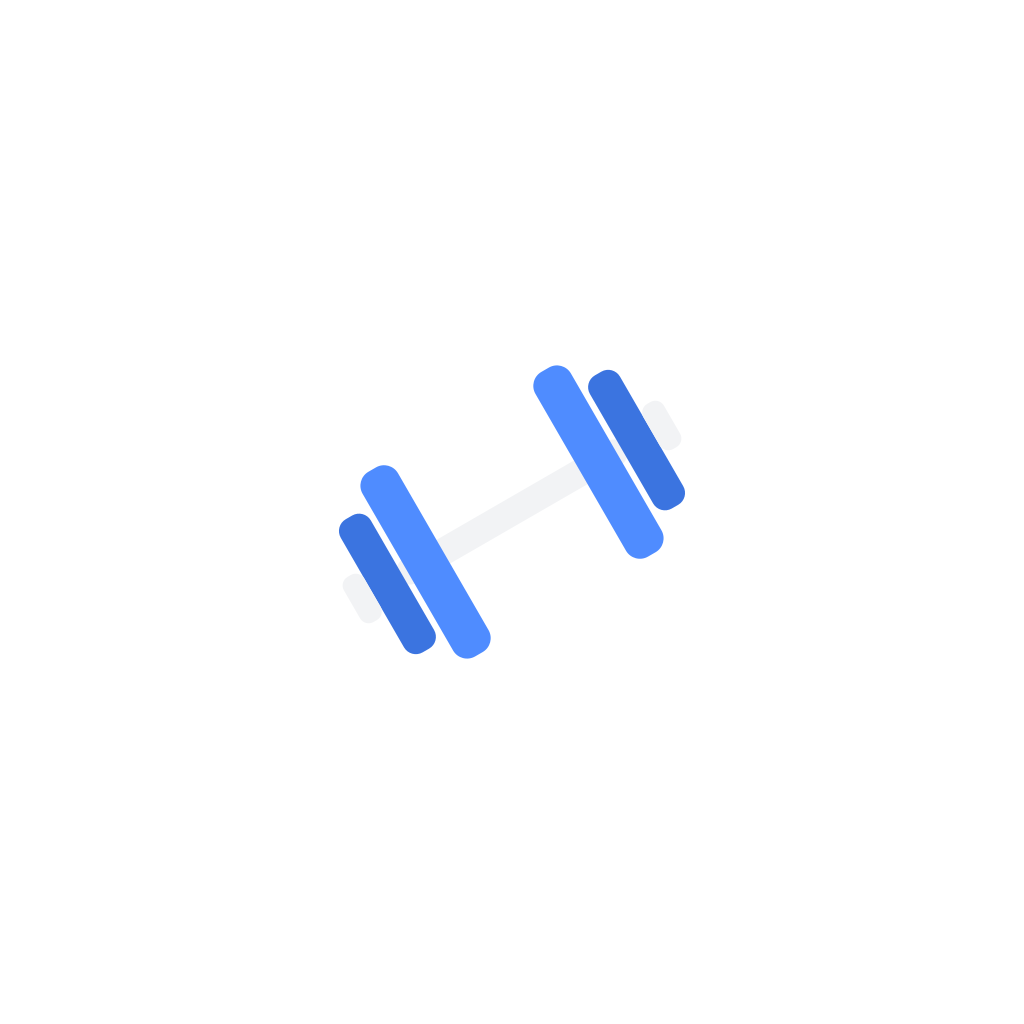
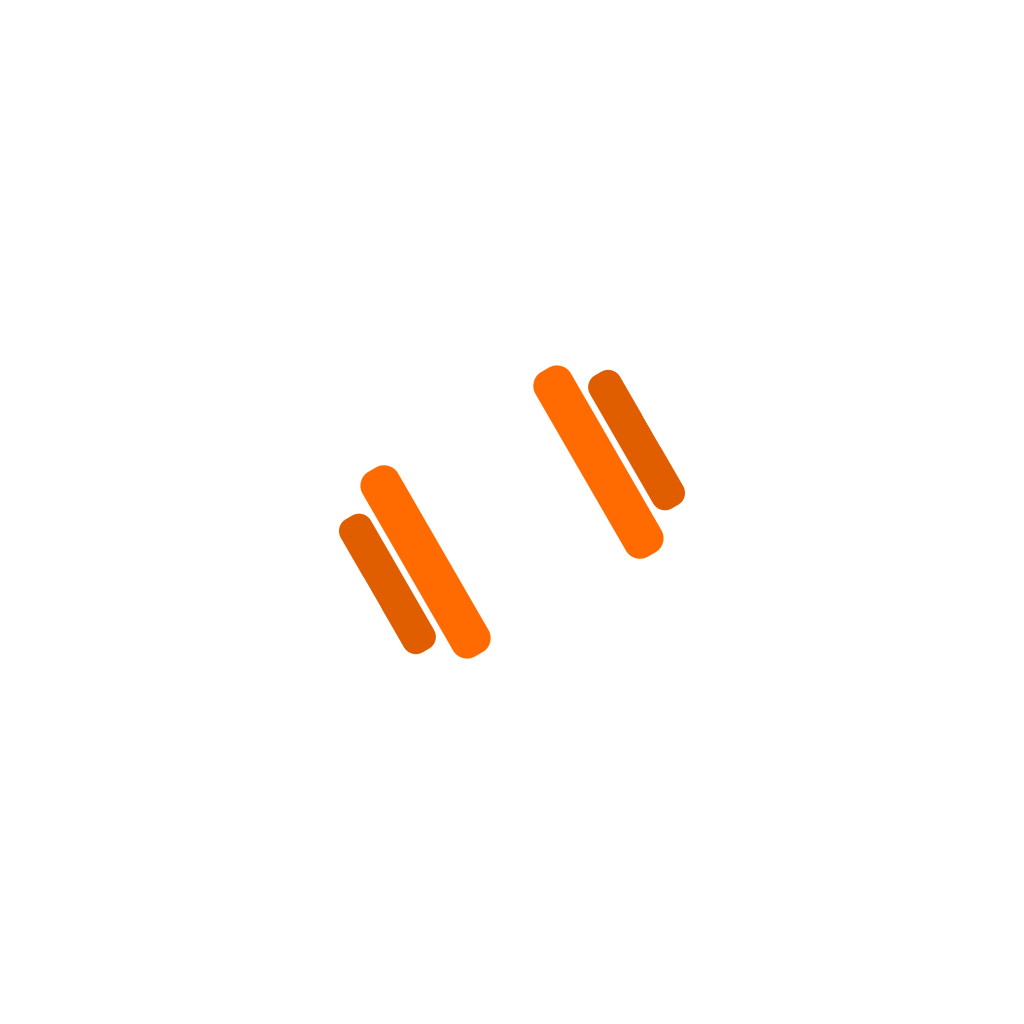
style: black and orange theme

Changed region(s): [[0.5, 0.3438, 0.6875, 0.5625], [0.3125, 0.4375, 0.5, 0.6562]]

diff --git a/src/theme/tokens.ts b/src/theme/tokens.ts
@@ -4,34 +4,35 @@
  */
 
 export const colors = {
-  // Surfaces: elevation comes from progressively lighter surfaces plus hairline borders.
-  background: '#0B0D10',
-  surface: '#14171C',
-  surfaceElevated: '#1C2027',
-  surfaceHighlight: '#252A33',
-  border: '#2A2F38',
-  borderStrong: '#3A404B',
+  // Surfaces: near-black, elevation from progressively lighter greys plus hairline borders.
+  background: '#0A0A0A',
+  surface: '#141414',
+  surfaceElevated: '#1C1C1C',
+  surfaceHighlight: '#262626',
+  border: '#2A2A2A',
+  borderStrong: '#3A3A3A',
 
-  // The one accent: primary actions, progress and "done".
-  primary: '#C6F432',
-  primaryPressed: '#AEDB1F',
-  primarySoft: '#1C2410',
-  onPrimary: '#0B0D10',
+  // The one brand accent (orange): primary actions, selection, progress and records.
+  primary: '#FF6B00',
+  primaryPressed: '#E05E00',
+  /** Orange tint for selected states and accent backgrounds. */
+  primaryMuted: 'rgba(255, 107, 0, 0.15)',
+  onPrimary: '#0A0A0A',
 
-  // Semantic colors.
-  success: '#34D399',
-  successSoft: '#0E2A20',
-  warning: '#FFB547',
-  warningSoft: '#2C2111',
-  danger: '#FF6363',
-  dangerSoft: '#2E1517',
-  onSemantic: '#0B0D10',
+  // Semantic colors, each clearly distinct from the orange.
+  success: '#22C55E',
+  successSoft: 'rgba(34, 197, 94, 0.12)',
+  warning: '#FACC15',
+  warningSoft: 'rgba(250, 204, 21, 0.12)',
+  danger: '#F56565',
+  dangerSoft: 'rgba(245, 101, 101, 0.15)',
+  onSemantic: '#0A0A0A',
 
-  textPrimary: '#F4F6F8',
-  textSecondary: '#A9B0BB',
-  textMuted: '#8E959F',
+  textPrimary: '#FFFFFF',
+  textSecondary: '#A3A3A3',
+  textMuted: '#959595',
 
-  overlay: 'rgba(0, 0, 0, 0.65)',
+  overlay: 'rgba(0, 0, 0, 0.7)',
   shimmer: 'rgba(255, 255, 255, 0.07)',
   transparent: 'transparent',
 } as const;

diff --git a/src/features/workout/components/SetCard.tsx b/src/features/workout/components/SetCard.tsx
@@ -84,8 +84,8 @@ export const SetCard = memo(function SetCard({
             paddingHorizontal: theme.spacing.lg,
             borderRadius: theme.radius.lg,
             borderWidth: 1,
-            borderColor: theme.colors.border,
-            backgroundColor: done ? theme.colors.surface : theme.colors.background,
+            borderColor: done ? theme.colors.successSoft : theme.colors.border,
+            backgroundColor: done ? theme.colors.successSoft : theme.colors.background,
           }}
         >
           <View
@@ -95,13 +95,13 @@ export const SetCard = memo(function SetCard({
               borderRadius: theme.radius.pill,
               alignItems: 'center',
               justifyContent: 'center',
-              backgroundColor: done ? theme.colors.primary : theme.colors.transparent,
+              backgroundColor: done ? theme.colors.success : theme.colors.transparent,
               borderWidth: done ? 0 : 1.5,
               borderColor: theme.colors.borderStrong,
             }}
           >
             {done ? (
-              <Ionicons name="checkmark" size={18} color={theme.colors.onPrimary} />
+              <Ionicons name="checkmark" size={18} color={theme.colors.onSemantic} />
             ) : (
               <AppText variant="label" color="textMuted">
                 {ordinal ?? t('workout.warmupShort')}
@@ -122,7 +122,7 @@ export const SetCard = memo(function SetCard({
             <Ionicons
               name="trophy"
               size={18}
-              color={theme.colors.warning}
+              color={theme.colors.primary}
               accessibilityLabel={t('records.newPR')}
             />
           ) : null}

diff --git a/src/features/home/components/ResumeBanner.tsx b/src/features/home/components/ResumeBanner.tsx
@@ -28,12 +28,12 @@ export function ResumeBanner({ dayName, startedAt, onResume, onDiscard }: Resume
         paddingStart: theme.spacing.lg,
         borderRadius: theme.radius.lg,
         borderWidth: 1,
-        borderColor: theme.colors.warning,
-        backgroundColor: theme.colors.warningSoft,
+        borderColor: theme.colors.primary,
+        backgroundColor: theme.colors.surfaceElevated,
       }}
     >
       <View style={{ flex: 1, gap: theme.spacing.xs }}>
-        <AppText variant="label" color="warning">
+        <AppText variant="label" color="primary">
           {t('home.inProgress')}
         </AppText>
         <View style={{ flexDirection: 'row', alignItems: 'baseline', gap: theme.spacing.sm }}>
@@ -43,7 +43,7 @@ export function ResumeBanner({ dayName, startedAt, onResume, onDiscard }: Resume
           <ElapsedTimer
             since={startedAt}
             variant="bodyStrong"
-            color="warning"
+            color="primary"
             accessibilityLabel={t('workout.elapsed')}
           />
         </View>

diff --git a/src/features/progress/components/PrBadge.tsx b/src/features/progress/components/PrBadge.tsx
@@ -45,13 +45,19 @@ export function PrBadge({ records }: PrBadgeProps) {
           paddingHorizontal: theme.spacing.md,
           paddingVertical: theme.spacing.xs,
           borderRadius: theme.radius.pill,
-          backgroundColor: theme.colors.warning,
+          backgroundColor: theme.colors.primary,
+          // Orange glow.
+          shadowColor: theme.colors.primary,
+          shadowOpacity: 0.6,
+          shadowRadius: theme.spacing.md,
+          shadowOffset: { width: 0, height: 0 },
+          elevation: 6,
         }}
       >
-        <AppText variant="label" color="background">
+        <AppText variant="label" color="onPrimary">
           {t('records.newPR')}
         </AppText>
-        <AppText variant="label" color="background">
+        <AppText variant="label" color="onPrimary">
           {kinds}
         </AppText>
       </View>

diff --git a/src/features/workout/SummaryScreen.tsx b/src/features/workout/SummaryScreen.tsx
@@ -60,7 +60,7 @@ export function SummaryScreen() {
       <View
         style={{ alignItems: 'center', gap: theme.spacing.xs, marginVertical: theme.spacing.lg }}
       >
-        <Ionicons name="trophy" size={48} color={theme.colors.warning} />
+        <Ionicons name="trophy" size={48} color={theme.colors.primary} />
         <AppText variant="title" align="center" accessibilityRole="header">
           {t('summary.title')}
         </AppText>
@@ -77,7 +77,7 @@ export function SummaryScreen() {
       </View>
 
       {prs.length > 0 ? (
-        <Card style={{ borderColor: theme.colors.warning }}>
+        <Card tone="accent">
           <AppText variant="subheading">{t('records.sessionTitle', { count: prs.length })}</AppText>
           {prs.map(({ exercise, set, records }) => (
             <View key={set.id} style={{ gap: theme.spacing.xs }}>

diff --git a/src/features/restTimer/restNotifications.ts b/src/features/restTimer/restNotifications.ts
@@ -3,6 +3,7 @@ import * as Notifications from 'expo-notifications';
 
 import { getMeta, META_KEYS, setMeta } from '@/db/repositories/appMeta';
 import i18n from '@/i18n';
+import { colors } from '@/theme';
 
 const CHANNEL_ID = 'rest-timer';
 const supported = Platform.OS !== 'web';
@@ -25,6 +26,7 @@ export async function configureRestNotifications(): Promise<void> {
       importance: Notifications.AndroidImportance.HIGH,
       vibrationPattern: [0, 400, 200, 400],
       sound: 'default',
+      lightColor: colors.primary,
     });
   }
 }

diff --git a/src/components/Card.tsx b/src/components/Card.tsx
@@ -33,7 +33,7 @@ export function Card({
   const theme = useTheme();
   const tones: Record<CardTone, { bg: string; border: string }> = {
     default: { bg: theme.colors.surface, border: theme.colors.border },
-    accent: { bg: theme.colors.primarySoft, border: theme.colors.primary },
+    accent: { bg: theme.colors.primaryMuted, border: theme.colors.primary },
     warning: { bg: theme.colors.warningSoft, border: theme.colors.warning },
     success: { bg: theme.colors.successSoft, border: theme.colors.success },
   };

diff --git a/src/features/program/components/ExercisePicker.tsx b/src/features/program/components/ExercisePicker.tsx
@@ -63,7 +63,7 @@ const GridCard = memo(function GridCard({
         borderRadius: theme.radius.lg,
         borderWidth: selected ? 2 : 1,
         borderColor: selected ? theme.colors.primary : theme.colors.border,
-        backgroundColor: selected ? theme.colors.primarySoft : theme.colors.surface,
+        backgroundColor: selected ? theme.colors.primaryMuted : theme.colors.surface,
       }}
     >
       <ExerciseThumb exercise={exercise} fill showAddPhotoHint radius={theme.radius.md} />

diff --git a/src/features/progress/components/ProgressChart.tsx b/src/features/progress/components/ProgressChart.tsx
@@ -77,9 +77,9 @@ export function ProgressChart({
           color={theme.colors.primary}
           dataPointsColor={theme.colors.primary}
           startFillColor={theme.colors.primary}
-          endFillColor={theme.colors.background}
+          endFillColor={theme.colors.primary}
           startOpacity={0.35}
-          endOpacity={0.02}
+          endOpacity={0}
           rulesColor={theme.colors.border}
           rulesType="solid"
           xAxisColor={theme.colors.border}

diff --git a/src/features/home/components/WeekStrip.tsx b/src/features/home/components/WeekStrip.tsx
@@ -35,7 +35,7 @@ export const WeekStrip = memo(function WeekStrip({ days, goal }: WeekStripProps)
         <Ionicons
           name={reached ? 'flame' : 'flame-outline'}
           size={18}
-          color={reached ? theme.colors.warning : theme.colors.textSecondary}
+          color={reached ? theme.colors.primary : theme.colors.textSecondary}
         />
         <AppText variant="bodyStrong" style={{ flex: 1 }}>
           {t('home.weekTitle')}

diff --git a/src/features/restTimer/RestTimerDock.tsx b/src/features/restTimer/RestTimerDock.tsx
@@ -48,7 +48,7 @@ function RestPill({ expanded, onToggle }: { expanded: boolean; onToggle: () => v
         borderRadius: theme.radius.pill,
         borderWidth: 1,
         borderColor: theme.colors.primary,
-        backgroundColor: theme.colors.primarySoft,
+        backgroundColor: theme.colors.primaryMuted,
       }}
     >
       <Svg width={RING} height={RING} style={{ transform: [{ rotate: '-90deg' }] }}>

diff --git a/src/features/workout/components/SuggestionCard.tsx b/src/features/workout/components/SuggestionCard.tsx
@@ -38,7 +38,7 @@ export function SuggestionCard({
         borderRadius: theme.radius.lg,
         borderWidth: 1,
         borderColor: increase ? theme.colors.primary : theme.colors.border,
-        backgroundColor: increase ? theme.colors.primarySoft : theme.colors.surface,
+        backgroundColor: increase ? theme.colors.primaryMuted : theme.colors.surface,
       }}
     >
       <View
